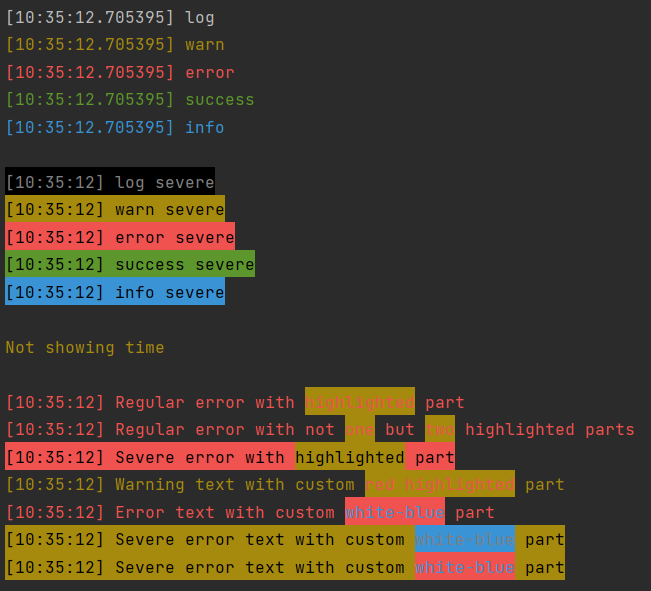
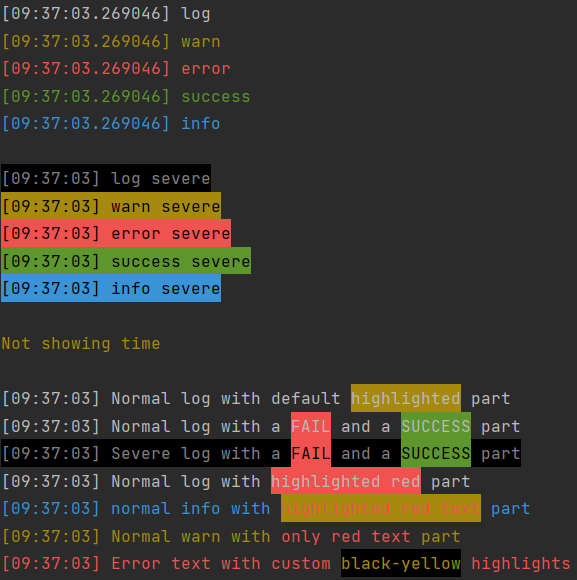
updated readme and fixed highlighting bug

diff --git a/setup.py b/setup.py
@@ -7,7 +7,7 @@ with open("README.md", "r", encoding="utf-8") as fh:
 setuptools.setup(
     name='py_console',  # should match the package folder
     packages=['py_console'],  # should match the package folder
-    version='0.0.1',  # important for updates
+    version='0.1.0',  # important for updates
     license='MIT',  # should match your chosen license
     description='Colorfull JavaScript-like console logging',
     long_description=long_description,  # loads your README.md
@@ -32,5 +32,5 @@ setuptools.setup(
         'Programming Language :: Python :: 3.10',
     ],
 
-    download_url="https://github.com/mike-huls/py-console/archive/refs/tags/v0.0.1.tar.gz",
+    download_url="https://github.com/mike-huls/py-console/archive/refs/tags/v0.1.0.tar.gz",
 )

diff --git a/py_console/console.py b/py_console/console.py
@@ -44,8 +44,10 @@ class Console:
 
     def get_string(self, fg:str, bg:str, msg:str, showTime:bool=None) -> str:
         # Take care of showing time: showTime if specified else __defaultShowTime
-        theTime = self.__getTime() if (showTime or self.__defaultShowTime) else ''
-
+        if (showTime != None):
+            theTime = self.__getTime() if (showTime) else ''
+        else:
+            theTime = self.__getTime() if (self.__defaultShowTime) else ''
 
         # Take care of highlighting in message
         if (self.__reset in msg):

diff --git a/README.md b/README.md
@@ -14,44 +14,53 @@ Main features:
 
 ### Demo
 ```python
-from py_console import console, bgColor, textColor
+    from py_console import console, bgColor, textColor
 
-# Specify console settings
-# Show time in console.log, console.warn etc by default?
-console.setShowTimeDefault(True)
-# Custom format for showing time (default H:M:S)
-# Here we've added miliseconds
-console.setTimeFormat(timeFormat='%H:%M:%S.%f')
+    # Specify console settings
+    # Show time in console.log, console.warn etc by default?
+    console.setShowTimeDefault(True)
+    # Custom format for showing time (default H:M:S)
+    # Here we've added miliseconds
+    console.setTimeFormat(timeFormat='%H:%M:%S.%f')
 
+    # normal logging
+    console.log("log")
+    console.warn("warn", severe=False)
+    console.error("error", severe=False)
+    console.success("success", severe=False)
+    console.info("info", severe=False)
 
-# normal logging
-console.log("log")
-console.warn("warn", severe=False)
-console.error("error", severe=False)
-console.success("success", severe=False)
-console.info("info", severe=False)
+    print(" ")
 
-# Change time format back
-console.setTimeFormat(timeFormat='%H:%M:%S')
+    # Change time format back
+    console.setTimeFormat(timeFormat='%H:%M:%S')
 
-# all of these colors also have the 'severe' option
-console.log("log severe", severe=True)
-console.warn("warn severe", severe=True)
-console.error("error severe", severe=True)
-console.success("success severe", severe=True)
-console.info("info severe", severe=True)
+    # all of these colors also have the 'severe' option
+    console.log("log severe", severe=True)
+    console.warn("warn severe", severe=True)
+    console.error("error severe", severe=True)
+    console.success("success severe", severe=True)
+    console.info("info severe", severe=True)
 
-# Specifying showTime ignores the defaults
-console.warn('Not showing time', showTime=False)
+    print(" ")
 
-# Logging with highlighted text
-console.error(f"Regular error with {console.highlight('highlighted')} part")
-console.error(f"Regular error with not {console.highlight('one')} but {console.highlight('two')} highlighted parts")
-console.error(f"Severe error with {console.highlight('highlighted')} part", severe=True)
-console.warn(f"Warning text with custom {console.highlight('red highlighted', textColor=textColor.RED)} part")
-console.error(f"Error text with custom {console.highlight('white-blue', textColor=textColor.BLUE, bgColor=bgColor.RED)} part")
-console.warn(f"Severe error text with custom {console.highlight('white-blue', textColor=textColor.WHITE, bgColor=bgColor.BLUE)} part", severe=True)
-console.warn(f"Severe error text with custom {console.highlight('white-blue', textColor=textColor.BLUE, bgColor=bgColor.RED)} part", severe=True)
+    # Specifying showTime ignores the defaults
+    console.warn('Not showing time', showTime=False)
+
+    print(" ")
+
+    # Logging with highlighted text
+    console.log(f"Normal log with default {console.highlight('highlighted')} part")
+    console.log(
+        f"Normal log with a {console.highlight('FAIL', bgColor=bgColor.RED)} "
+        f"and a {console.highlight('SUCCESS', bgColor=bgColor.GREEN)} part")
+    console.log(
+        f"Severe log with a {console.highlight('FAIL', bgColor=bgColor.RED, textColor=textColor.BLACK)} "
+        f"and a {console.highlight('SUCCESS', bgColor=bgColor.GREEN, textColor=textColor.BLACK)} part", severe=True)
+    console.log(f"Normal log with {console.highlight('highlighted red', bgColor=bgColor.RED)} part")
+    console.info(f"normal info with {console.highlight('highlighted red text', textColor=textColor.RED)} part")
+    console.warn(f"Normal warn with {console.highlight('only red text', textColor=textColor.RED, bgColor='')} part")
+    console.error(f"Error text with custom {console.highlight('black-yellow', textColor=textColor.YELLOW, bgColor=bgColor.BLACK)} highlights")
 ```
 
 ## Output:  
